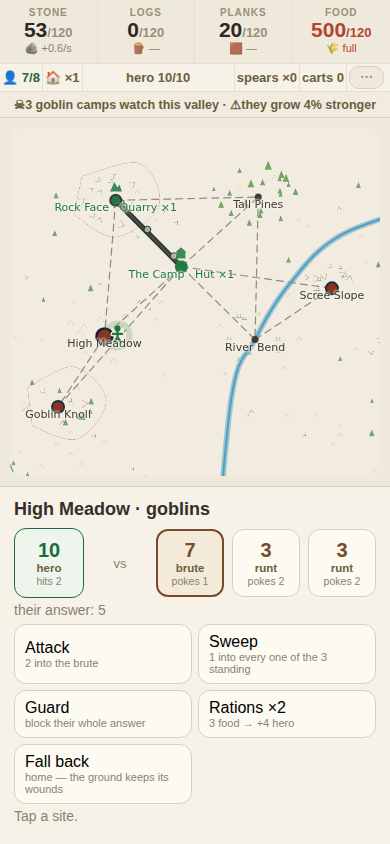
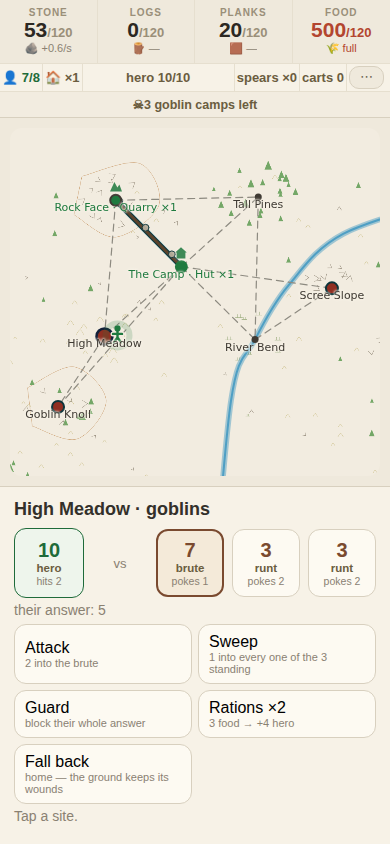
THE FUSE: the war burns along the road, not in the header
Two complaints from playtest 3, one answer. The owner, reading the header
mid-game: "it's a stupid thing to have in the same... you know, this is a
stats menu. Why is it there?" And of the raids: "there is no clear visual
indicator that they are attacking on a path."

That line carried five facts -- the fullest raid's percentage, what it was
coming for, where the hero was standing, camps left, and how much the
goblins had swollen. Four of them are facts about PLACES, and this game
has a board for places.

THE FUSE. A faint dotted cord now runs the whole road from the first
spark, and a solid burn covers `menace` of it from the holding, with a
head at the tip. The old threat line waited until half full, so the first
half of every raid was invisible; how close a raid is is now a length
drawn on the ground it threatens.

THE RETICLE. A ring on what it is coming for, thickening as the fuse
nears and doubling past 85%. GREEN, in the hero's own ink, when the hero
or three guards hold that ground -- that is not a warning any more, it is
a statement that something is standing there.

Covered ground DIMS the fuse and never hides it. A guard does not stop
the clock, and hiding the fuse would say it did.

The swept muster arc is deleted. It said the same 0-to-1 the fuse says,
beside a dot that already swells with menace: three drawings of one
number on one dot. The swell moved to each holding's own panel, where the
[…]

Changed region(s): [[0.0308, 0.0924, 0.9538, 0.154], [0.4308, 0.2773, 0.4615, 0.3081], [0.3692, 0.2464, 0.4, 0.2773]]

diff --git a/src/ui/Camp.svelte b/src/ui/Camp.svelte
@@ -11,7 +11,7 @@
     raisingLeft, buildSecs, housed, blowLeft, spearLabel, SPEAR_MADE, SWEEP_SHARE,
     guardsAt, guardsTotal, GUARD_STOP, unhireable, hireCost, levyCap, folkName,
     unforageable, nextForay, forageLeft, FORAGE_SECS, onWatch, RAID_SECS,
-    unmarchable, marchSecs, onWatchAt, MUSTER_SHOWS, swellOf, spawnOf,
+    unmarchable, marchSecs, onWatchAt, swellOf, spawnOf,
     holdingsLeft,
     richOf, storeCost, roomOf, STORE_ROOM, cartCost, cartHaul, CARRY, CART_GAIN,
     raiders, raidTarget,
@@ -112,20 +112,8 @@
    *  what is in front of you is worse than no number. */
   const shownHoldings = $derived(
     shown(game).filter((s) => game.goblins[s.id]).length);
-  /** ★ THE NEAREST RAID: whichever holding is fullest, and what it is
-   *  coming for. `null` before first blood, when there is no war yet. */
-  const worst = $derived((() => {
-    let best: { m: number; at: string; gate: number | null } | null = null;
-    for (const id of raiders(game)) {
-      const m = game.menace[id] ?? 0;
-      const t = raidTarget(game, id);
-      if (t === null) continue;
-      if (best === null || m > best.m) {
-        best = { m, at: SITE.get(t)?.name ?? '', gate: t };
-      }
-    }
-    return best;
-  })());
+  // (`worst` — the fullest raid and what it was coming for — is gone with the
+  //  war line it fed, 2026-08-14. Both facts are drawn on the road now.)
   /** ★ WHAT THE PATHS ARE EATING, per second, over the whole town. This is
    *  the cartwright's case, and without it on screen the deed is a number
    *  with no reason attached. */
@@ -377,57 +365,106 @@
     // still computed above because the muster marks want the same hull.
     return [
       ...musterShapes(),
+      ...ambushShapes(),
       ...CAMP_SHAPES,
     ];
   })());
 
-  /** ★★★ THE WAR, DRAWN — step 3 of `docs/RAIDS.md`, 2026-08-10. The owner:
-   *  *"it's not even visible anywhere."* Two marks, both canvas-side:
+  /** ★★★ THE WAR, DRAWN — step 3 of `docs/RAIDS.md`, 2026-08-10, rebuilt as
+   *  **the fuse** 2026-08-14. The owner, playing the valley through:
+   *  *"there is no clear visual indicator that they are attacking on a
+   *  path"*, and of the war line in the top strip: *"this is a stats menu.
+   *  Why is it there?"* So the war moved onto the board, where the war is.
    *
-   *  - **the muster** — a ring round a holding's dot that FILLS 0→1 as it
-   *    gathers, so "how close" is a shape rather than a number in a line of
-   *    text you have to go and read;
-   *  - **the threat** — a dotted line from the holding to what it is coming
-   *    FOR, from `MUSTER_SHOWS` on, brightening as it fills. This is the
-   *    part that was actually missing: menace said *how much* and never
-   *    *at what*.
+   *  Three marks, all canvas-side, all on the road the raid will actually
+   *  walk (`raidTarget` only ever picks a NEIGHBOUR, so it is one segment):
+   *
+   *  - **the cord** — the whole run, faint and dotted, from the first spark.
+   *    It says *this road is the one they will come down*, which is the part
+   *    that was missing: the old line waited until half full to appear, so
+   *    the first half of every raid was invisible.
+   *  - **the fuse** — a solid burn from the holding covering `m` of the run,
+   *    with a head at the tip. How close the raid is, drawn at full length
+   *    on the ground it threatens instead of as a percentage in a strip.
+   *  - **the reticle** — a ring on what it is coming FOR, thickening as the
+   *    fuse nears and doubling in the last fifteen percent. Green, in the
+   *    hero's own ink, when the ground is held: that is not a warning any
+   *    more, it is a statement that something is standing there.
+   *
+   *  ⚠ NO SWEPT ARC ON THE HOLDING ANY MORE. It said the same 0→1 the fuse
+   *  now says, beside a dot that ALSO swells with menace (`r` in `dots`) —
+   *  three drawings of one number on one dot. The fuse is the one that says
+   *  *at what*, so it is the one that stayed.
    *
    *  ⚠ THE INK IS `foe`, NOT A FOURTH RED. `docs/RAIDS.md` warns that a new
    *  red must be measured against every counted ink AND against `foe` under
    *  colour blindness before a line of it is drawn. `foe` already means
    *  "held against you", is already measured in `test/palette.test.ts`, and
-   *  the line is told apart by being DOTTED and by moving — not by hue.
-   *  A fourth red buys nothing here and costs a vacuous palette check. */
+   *  the fuse is told apart by WHERE IT ENDS, not by hue. */
   function musterShapes(): Shape[] {
     if (game.lost) return [];
     const out: Shape[] = [];
+    /** Worst menace aimed at each of our sites, so two raiders coming for one
+     *  field draw one reticle rather than two rings of different weight. */
+    const aimed = new Map<number, number>();
     for (const id of raiders(game)) {
-      const m = game.menace[id] ?? 0;
+      const m = Math.min(1, game.menace[id] ?? 0);
       const from = SITE.get(id);
       if (!from || m <= 0) continue;
-      // The ring: a swept arc, because `Shape` has no arc and a partial
-      // circle of points is one. Starts at twelve o'clock and fills round.
-      const r = 11;
-      const steps = Math.max(2, Math.round(28 * Math.min(1, m)));
-      const pts = Array.from({ length: steps + 1 }, (_, i) => {
-        const a = -Math.PI / 2 + (i / steps) * Math.min(1, m) * Math.PI * 2;
-        return { x: from.x + Math.cos(a) * r, y: from.y + Math.sin(a) * r };
-      });
-      out.push({ s: 'path', pts, ink: 'foe', w: 2.5, alpha: 0.35 + 0.65 * Math.min(1, m) });
-      // The line: only once it is worth naming, and it STOPS AT THE HERO if
-      // the hero is standing on the ground it wants — "they were stopped,
-      // and by what", drawn.
-      if (m < MUSTER_SHOWS) continue;
       const t = raidTarget(game, id);
       const to = t === null ? null : SITE.get(t);
+      if (t === null || !to) continue;
+      aimed.set(t, Math.max(aimed.get(t) ?? 0, m));
+      const held = onWatchAt(game, t) || guardsAt(game, t) >= GUARD_STOP;
+      // The cord: the whole road, always, once anything is gathering at all.
+      out.push({ s: 'path', pts: [{ x: from.x, y: from.y }, { x: to.x, y: to.y }],
+        ink: 'foe', w: 1.6, dash: [4, 7], alpha: 0.3 });
+      // The fuse: burning from the holding towards the prize.
+      const hx = from.x + (to.x - from.x) * m;
+      const hy = from.y + (to.y - from.y) * m;
+      // ⚠ DIM WHEN IT IS COVERED, never hidden. A raid that something is
+      // standing in front of is still gathering, and hiding the fuse would
+      // make posting a guard look like it stopped the clock. It does not.
+      out.push({ s: 'path', pts: [{ x: from.x, y: from.y }, { x: hx, y: hy }],
+        ink: 'foe', w: 3.2, alpha: held ? 0.55 : 0.9 });
+      out.push({ s: 'disc', x: hx, y: hy, r: 3.4, ink: 'foe', alpha: held ? 0.6 : 1 });
+    }
+    for (const [t, m] of aimed) {
+      const to = SITE.get(t);
       if (!to) continue;
-      const held = t !== null && onWatchAt(game, t);
-      const end = held && heroAt ? heroAt : to;
-      out.push({ s: 'path', pts: [{ x: from.x, y: from.y }, { x: end.x, y: end.y }],
-        ink: 'foe', w: 2, dash: [5, 5],
-        alpha: 0.3 + 0.6 * Math.min(1, (m - MUSTER_SHOWS) / (1 - MUSTER_SHOWS)) });
+      const held = onWatchAt(game, t) || guardsAt(game, t) >= GUARD_STOP;
+      // A circle of points, because `Shape` has no arc and this is one.
+      const ring = (r: number, w: number, alpha: number): Shape => ({
+        s: 'path', close: true, ink: held ? 'open' : 'foe', w, alpha,
+        pts: Array.from({ length: 25 }, (_, i) => {
+          const a = (i / 24) * Math.PI * 2;
+          return { x: to.x + Math.cos(a) * r, y: to.y + Math.sin(a) * r };
+        }),
+      });
+      out.push(ring(11, 1.4 + 2.2 * m, 0.35 + 0.6 * m));
+      // The last stretch gets a second ring — a discrete change of shape, not
+      // a blink. Nothing on this board animates that a thumb has to hit.
+      if (m >= 0.85) out.push(ring(15, 1.6, held ? 0.5 : 0.85));
     }
     return out;
+  }
+
+  /** ★ CAUGHT IN THE OPEN, ON THE BOARD — 2026-08-14. An ambush is the one
+   *  piece of war news that is not about a place, so it was the one thing
+   *  the top strip could still claim. It is about a place: it is about the
+   *  stretch of road the hero is standing on. Two rings round the figure,
+   *  and the figure is already drawn there. */
+  function ambushShapes(): Shape[] {
+    if (game.ambush === null || heroAt === null) return [];
+    const at = heroAt;
+    const ring = (r: number, alpha: number): Shape => ({
+      s: 'path', close: true, ink: 'foe', w: 2.4, alpha,
+      pts: Array.from({ length: 25 }, (_, i) => {
+        const a = (i / 24) * Math.PI * 2;
+        return { x: at.x + Math.cos(a) * r, y: at.y + Math.sin(a) * r };
+      }),
+    });
+    return [ring(10, 0.9), ring(15, 0.5)];
   }
 
   /** ★ WHERE THE FIGURE GOES: beside the dot while standing, and on the road
@@ -811,8 +848,17 @@
       // holds it, how strong, what it is worth, how full its raid clock is,
       // and whether anything of yours would stop it. Split, one fact a line,
       // in `statusLines` below — the panel gives each its own row.
+      // ★★★ THE SWELL MOVED HERE, 2026-08-14, off the top strip — where the
+      // owner met it as *"a stupid thing to have"* in a stats menu. It is
+      // not a stat about the valley, it is the reason THIS number is bigger
+      // than it was: `spawnOf` refills a camp to a ceiling that rises with
+      // the clock, so "48 strong" already IS the swell. Said beside it, the
+      // number has a cause; said in the header, it was a percentage of
+      // nothing in particular.
+      const grown = swellOf(game) > 0.02
+        ? ` · ${MARK.waste}+${Math.round(swellOf(game) * 100)}% stronger than at first light` : '';
       return `goblins hold it · ${MARK.danger}${Math.ceil(game.goblins[picked] ?? 0)} strong`
-        + prizeOf(picked) + clock;
+        + grown + prizeOf(picked) + clock;
     }
     const n = game.stacks[picked] ?? 0;
     // ★ Won ground keeps saying what it is worth — a ×3 pit that reads the
@@ -1119,56 +1165,38 @@
            column cannot overlap anything. -->
       <button class="reset gear" onclick={() => (menu = !menu)}>{menu ? 'Close' : '⋯'}</button>
     </div>
-    <!-- ★★ THE GOAL, AND THE WAR, ON SCREEN — 2026-08-10 (playtest). Two
-         complaints, one line. *"at the moment, I do not see any goal. I don't
-         understand what to do."* And: *"I'm not sure when the attack on the
-         camp is gonna happen. And if it's gonna happen."* The raid clock
-         existed but only on the holding's own panel, which you had to go and
-         tap — a war you cannot see coming is not a clock. -->
-    <!-- ★★★ HOW, WHY, AND WHAT TO DO — 2026-08-10. The owner: *"the goblin
-         raids mechanics is unclear how it happens, why and what can you do
-         about it."* All three go on one line, always:
-           HOW  — a percentage that fills, and the site it is coming for
-           WHY  — it only starts once you have taken ground (first blood)
-           WHAT — the hero stops one raid by being HOME, and taking the
-                  holding stops its clock for good -->
-    <div class="warline" class:hot={worst !== null && worst.m > 0.6} data-q="war">
+    <!-- ★★★ THE WAR CAME OFF THIS LINE — 2026-08-14. It used to carry five
+         facts: how full the worst raid was, what it was coming for, where
+         the hero was standing, how many camps were left, and how much the
+         goblins had swollen. The owner, reading it mid-game: *"it's a stupid
+         thing to have in the same… you know, this is a stats menu. Why is it
+         there?"* And, of the raids themselves: *"there is no clear visual
+         indicator that they are attacking on a path."*
+
+         Both complaints have the same answer. The clock, the target and the
+         hero's whereabouts are all facts about PLACES, so they went to the
+         board, where places are: the fuse burns along the road the raid will
+         walk, the reticle rings what it is coming for, the figure stands
+         where the hero stands. The swell is already in the number on each
+         holding's own panel — `spawnOf` refills a camp to the swollen
+         ceiling, so "48 strong" IS the swell, said once.
+
+         What is left is the goal — how much of the valley is still theirs —
+         and the ambush, which is the one piece of war news that is not a
+         standing fact about a place but a thing that HAPPENED, and which
+         clears itself after twelve seconds. -->
+    <div class="warline" class:hot={game.ambush !== null} data-q="war">
+      <!-- ⚠ `shownHoldings`, NOT `holdings` (2026-08-11). An earlier version
+           tested every camp on the map and then printed the count the FOG
+           allows, so a valley whose camps were all still hidden announced
+           "0 goblin camps" while the branch that exists to say the valley is
+           yours sat unreached below it. Found by an audit, not by play. -->
       {#if game.ambush !== null}
-        <!-- ★ CAUGHT IN THE OPEN outranks every other war news for as long as
-             it lasts: it is the one thing that happened TO you. -->
-        {MARK.waste}ambushed on the road
-        · {MARK.hero}{game.hero.hp}/{heroMax(game)}
-      {:else if worst !== null}
-        {MARK.waste}{Math.round(worst.m * 100)}% → {worst.at}
-        · {worst.gate !== null && onWatchAt(game, worst.gate)
-          ? `${MARK.hero} holding it`
-          : game.hero.trip
-            ? `${MARK.hero}→${SITE.get(game.hero.trip.to)?.name ?? ''}`
-            : `${MARK.hero} ${SITE.get(game.hero.at)?.name ?? ''}`}
-        · {MARK.danger}{shownHoldings} camps left{swellOf(game) > 0.02
-          ? ` · ${MARK.waste}+${Math.round(swellOf(game) * 100)}%` : ''}
-      <!-- ⚠ `shownHoldings`, NOT `holdings` (2026-08-11). This branch tested
-           every camp on the map and then printed the count the FOG allows, so
-           a valley whose camps were all still hidden announced "0 goblin camps
-           watch this valley" — while the branch that exists to say the valley
-           is yours sat unreached below it. Found by an audit, not by play. -->
+        {MARK.waste}ambushed on the road · {MARK.hero}{game.hero.hp}/{heroMax(game)}
       {:else if shownHoldings > 0}
-        <!-- ★ WHAT A HOLDING IS, not just how many. The owner: *"why holdings
-             are with skull and bones is not quite well understood by me…
-             What is a holding? They come once you take one — who comes?"* -->
-        <!-- ★★★ N4, 2026-08-11 — the owner: *"six goblin camps, take one and
-             the rest raid — that is meta. We should have a [narrator]
-             somewhere, against meta leading into the user."* The rules were
-             printed AS rules. They are said now, by the camp, about the
-             valley it is standing in. -->
-        {MARK.danger}{shownHoldings} goblin camps watch this valley
-        {#if swellOf(game) > 0.02}
-          · {MARK.waste}they grow {Math.round(swellOf(game) * 100)}% stronger
-        {:else}
-          · every day you wait, they grow
-        {/if}
+        {MARK.danger}{shownHoldings} goblin camps left
       {:else}
-        {MARK.danger}0 · the valley is yours
+        {MARK.danger}the valley is yours
       {/if}
     </div>
     {#if menu}

diff --git a/docs/DECISIONS.md b/docs/DECISIONS.md
@@ -1860,3 +1860,4 @@ Entries above this line are long because the one-line rule did not exist yet.
 - 2026-08-09 — **MARKS, NOT PROSE** in the dock (owner: *"too much prose there, please icons and indicators"*). `src/camp/marks.ts` names each thing once and BOTH the HUD and the dock read it — a second hand-typed icon set in the deeds is how the board once said "25 nodes" beside a HUD saying "3 recovered". `55 stone · 33 planks → holds 300 of each · 3 standing` became `🪨55 🟫33 → 📦300 · ×3`; `11 stone — you have 3` became `🪨3/11`, deliberately the same have-over-need shape as `👤4/6` in the HUD one row above; `dangerous — goblins, 18 strong` became `☠18`. The camp status line LOST what the HUD already says rather than being restyled — population and cap are `👤20/18` one row up — leaving `🌾+0.0/s −0.7/s · 📦120 · 👤63%`. The widen label's `(1 of 3)` moved into the note because it ellipsised to `(…` in a half-width card, cutting the only number the label carried. ⚠ The probe now scans every `.deed em` for the English that used to live there and fails if any returns; proven by restoring the storehouse's old sentence.
 - 2026-08-09 — **THE GOBLINS COME AT YOU** (owner, asked what the game's goal is: *"i feel like we need to add attacking goblins and then make hero lose and restart stronger or something"* — this is the first half). Held ground used to sit there and heal, making the map a to-do list of six fights at your leisure; a holding that can take something back is a CLOCK, and it makes the hero matter between fights. A holding whose neighbour is yours AND has something on it fills over RAID_SECS 300, comes for the fullest thing it can reach, and takes one building; a holding with nothing in reach never fills, so the early camp is not besieged from minute one, and liberating ground stops that clock for good. ⚠ IT MUST NOT PUNISH ABSENCE — `docs/BRIEF.md` standing constraint — so menace BUILDS while away and CANNOT LAND: a raid due offline waits at the gate, full, and breaks on the first watched tick. Twelve hours away is 144 raids' worth and not one lands. Visible on the holding's panel (`☠12 · own path to camp · ⚠99% → The Camp`) and as a swelling dot. ⚠ The first cut of that line returned early with only the menace and silently dropped the prize, breaking the gates-advertise-their-artery check — added to the line now, not in front of it. STILL MISSING: the second half, the hero losing and the restart-stronger loop, which is the actual goal state.
 - 2026-08-09 — **LOSE THE VALLEY, KEEP THE VETERAN** (second half of *"make hero lose and restart stronger"*; the game has a goal state now). FIRST BLOOD STARTS THE WAR — the goblins ignore a camp that has never touched them, which fixes an opening five minutes that were a siege you had no hero for. A raid takes a building; with nothing left to burn it takes the GROUND, so a stripped site becomes theirs and the barrier shrinks. They eat inward — fullest thing standing, then bare ground, THE CAMP LAST — and that ordering is the length of a run. Camp falls → `lost`, the board stops ticking, and a full-screen THE VALLEY IS LOST ends it (the owner's old complaint: *"I think I won, but it wasn't clear"*). The veteran carries `floor(arms/2)+1` as a MAXIMUM against what you had, so a short run can never make you weaker — failure is a plateau. ⚠ THREE BUGS SHAKEN OUT BY CHECKS: `heroMax` was `originals − current holdings` and ran BACKWARDS once a raid could add a holding (counts `taken` now); the save door checked every goblin key against the six original holdings, so a run the goblins were winning was REFUSED ON RELOAD and silently wiped (any real site is legal now); and `raidTarget` preferred the camp among bare sites, the exact opposite of the sentence commented above it.
+- 2026-08-14 — **THE WAR CAME OFF THE STATS STRIP AND ONTO THE BOARD** (owner, playtest 3, reading the header mid-game: *"it's a stupid thing to have in the same… you know, this is a stats menu. Why is it there?"*, and of the raids themselves: *"there is no clear visual indicator that they are attacking on a path."* One answer to both.) The header line carried five facts — the fullest raid's percentage, its target, the hero's whereabouts, camps left, and the swell. Four of them are facts about PLACES, so they went where places are. **The fuse**: a faint dotted cord runs the whole road from the first spark (the old threat line waited until half full, so the first half of every raid was invisible), and a solid burn covers `menace` of it from the holding, head at the tip — *how close* drawn as a length on the ground it threatens. **The reticle**: a ring on what it is coming for, thickening as the fuse nears, doubling past 85%, GREEN when the hero or three guards hold it. Covered ground **dims the fuse and never hides it** — a guard does not stop the clock, and hiding it would say otherwise. The swept muster arc is deleted: it said the same 0→1 the fuse says, beside a dot that already swells with menace, which was three drawings of one number on one dot. The swell moved to each holding's own panel, where the number it inflates is (`spawnOf` refills to a ceiling that rises, so "48 strong" already IS the swell). The header keeps the goal and the ambush, which is the one piece of war news that happened rather than standing. ⚠ The old probe check could not see this drawing at all — it counted `foe` ink over the whole run, and the cord runs full length from the start, so a fuse stuck at zero and one burnt to the end count the same samples. It is near-band-against-far-band on one seed now (21/21 vs 6/21 at half full; 21/21 far at 97%), which also removes the layout drift the old check had to comment around. Both sabotages run: full-length fuse → far 21/21 at 50%, red; no fuse at all → near 7/21, red.

diff --git a/docs/CITY.md b/docs/CITY.md
@@ -925,13 +925,39 @@ travel time is a real nerf to every rung and `chad-liquidity` should re-run it.
 
 ## ★★★ THE WAR, DRAWN — 2026-08-10, steps 3–4 of `docs/RAIDS.md`
 
-**Step 3 — the muster and the threat.** A gathering holding wears a **ring
-that fills 0→1**, so *how close* is a shape rather than a number in a line of
-text you have to go and read. From `MUSTER_SHOWS` (0.5) a **dotted line** runs
-from the holding to what it is coming *for*, brightening as it fills — this
-was the actually-missing part, because menace said *how much* and never *at
-what*. When the hero holds the target the line **stops at their marker**:
-"they were stopped, and by what", drawn.
+**Step 3 — the muster and the threat.** *(Rebuilt as the fuse, 2026-08-14 —
+see below. The original: a ring on the holding filling 0→1, plus a dotted
+line to its target from `MUSTER_SHOWS` (0.5) on.)*
+
+**★★★ THE FUSE — 2026-08-14.** The owner, mid-playthrough: *"there is no clear
+visual indicator that they are attacking on a path"*, and of the war line in
+the header, *"this is a stats menu. Why is it there?"* One answer to both. A
+gathering raid now draws on the road it will actually walk:
+
+| Mark | What it says |
+| --- | --- |
+| **the cord** | faint and dotted, the whole run, from the first spark — *this is the road they come down* |
+| **the fuse** | solid, from the holding, covering `menace` of the run, head at the tip — *how close*, drawn as a length on the ground it threatens |
+| **the reticle** | a ring on what it is coming *for*, thickening as the fuse nears, doubling past 85%, **green** when the hero or three guards hold it |
+
+The old dotted line waited until half full, so the first half of every raid
+was invisible. The swept arc is gone: it said the same 0→1 the fuse says,
+beside a dot that already swells with menace — three drawings of one number.
+Covered ground **dims the fuse, never hides it**: a guard does not stop the
+clock, and hiding it would say otherwise.
+
+Everything the header's war line used to carry — the percentage, the target,
+the hero's whereabouts, the swell — is a fact about a *place*, and all four
+are on the board now (the swell is on each holding's own panel, where the
+number it inflates is). The header keeps the goal and the ambush.
+
+⚠ Guarded in `scripts/play-camp.mjs` by **near band against far band on one
+seed**: at half full the near fifth of the run is 21/21 lit and the far fifth
+6/21, and at 97% the far fifth is 21/21. A whole-run count cannot see this
+drawing at all — the cord runs the full length from the start, so a fuse stuck
+at zero and one burnt to the end count the same samples. Both sabotages were
+run: full-length fuse → far band 21/21 at 50%, red; no fuse → near band 7/21,
+red.
 
 ⚠ **THE INK IS `foe`, NOT A FOURTH RED.** `docs/RAIDS.md` warned that a new
 red must be measured against every counted ink *and* against `foe` under

diff --git a/docs/NEXT.md b/docs/NEXT.md
@@ -1,5 +1,23 @@
 # NEXT — the queue
 
+## ★★★ THE IA RESTRUCTURE, 2026-08-14 — five steps, from playtest 3
+
+The owner, after the third playthrough: *"we need to gather all of our
+features, see where they are, and kinda reshuffle things, make things more
+streamlined."* Five steps, in the order they were agreed. **One per session.**
+
+| # | step | state |
+|---|---|---|
+| 1 | **The dock** — place is what the map gives you, town/people/hero/log are sheets over it | ✅ `a808387` |
+| 2 | **The war off the stats strip, onto the board** — the fuse, the reticle, the goal alone in the header | ✅ this session |
+| 3 | **One ranked readout row** — food and people pinned, the rest behind a Stores cell | ⬜ next |
+| 4 | **Three standing objectives, one free skip** — the Fallout Shelter steal the teardown ranked #1 | ⬜ |
+| 5 | **More jobs for people** — haulers, builders. The real answer to "no point in more people" | ⬜ |
+
+Then: incidents that spread along roads; expeditions with recall. Still open
+from before: the fight ladder needs a `chad-liquidity` retune for travel time,
+and the hero still walks a straight line through the river.
+
 ## ★★★ THE DESIGN PASS, 2026-08-11 — four research agents, and what shipped
 
 The owner: *"there's no point in it and it's boring… now i only need economy
